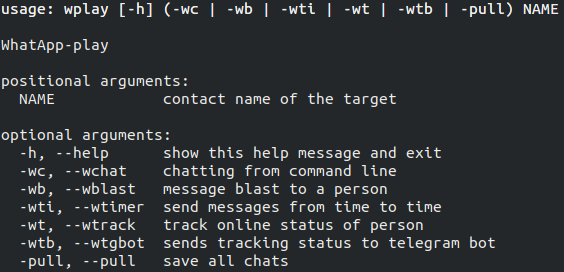
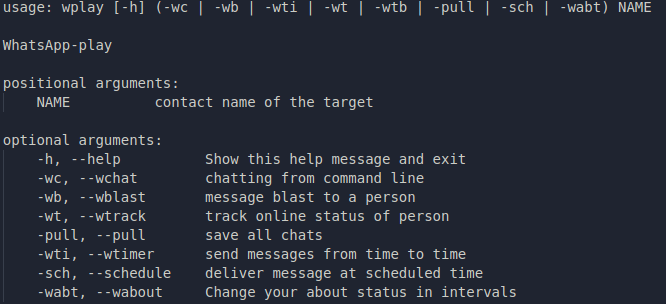
added commands

diff --git a/wplay/downloadmedia.py b/wplay/downloadmedia.py
@@ -1,0 +1,28 @@
+from wplay.utils import browser_config
+from wplay.utils import target_search
+from wplay.utils import target_select
+from wplay.utils import io
+from wplay.utils import Logger
+from wplay.utils.helpers import logs_path
+
+
+#region LOGGER create
+logger = Logger.setup_logger('logs',logs_path/'logs.log')
+#endregion
+
+
+async def blast(target):
+    page, _ = await browser_config.configure_browser_and_load_whatsapp()
+    if target is not None:
+        try:
+            await target_search.search_and_select_target(page, target)
+        except Exception as e:
+            print(e)
+            await target_search.search_and_select_target_without_new_chat_button(page,target)
+    else:
+        await target_select.manual_select_target(page)
+    # message : list[str] = io.ask_user_for_message_breakline_mode()
+    # number_of_messages : int = int(input("Enter the number of messages to blast: "))
+    # for _ in range(number_of_messages):
+        # logger.info("Blasting messages")
+        # await io.send_message(page, message)
